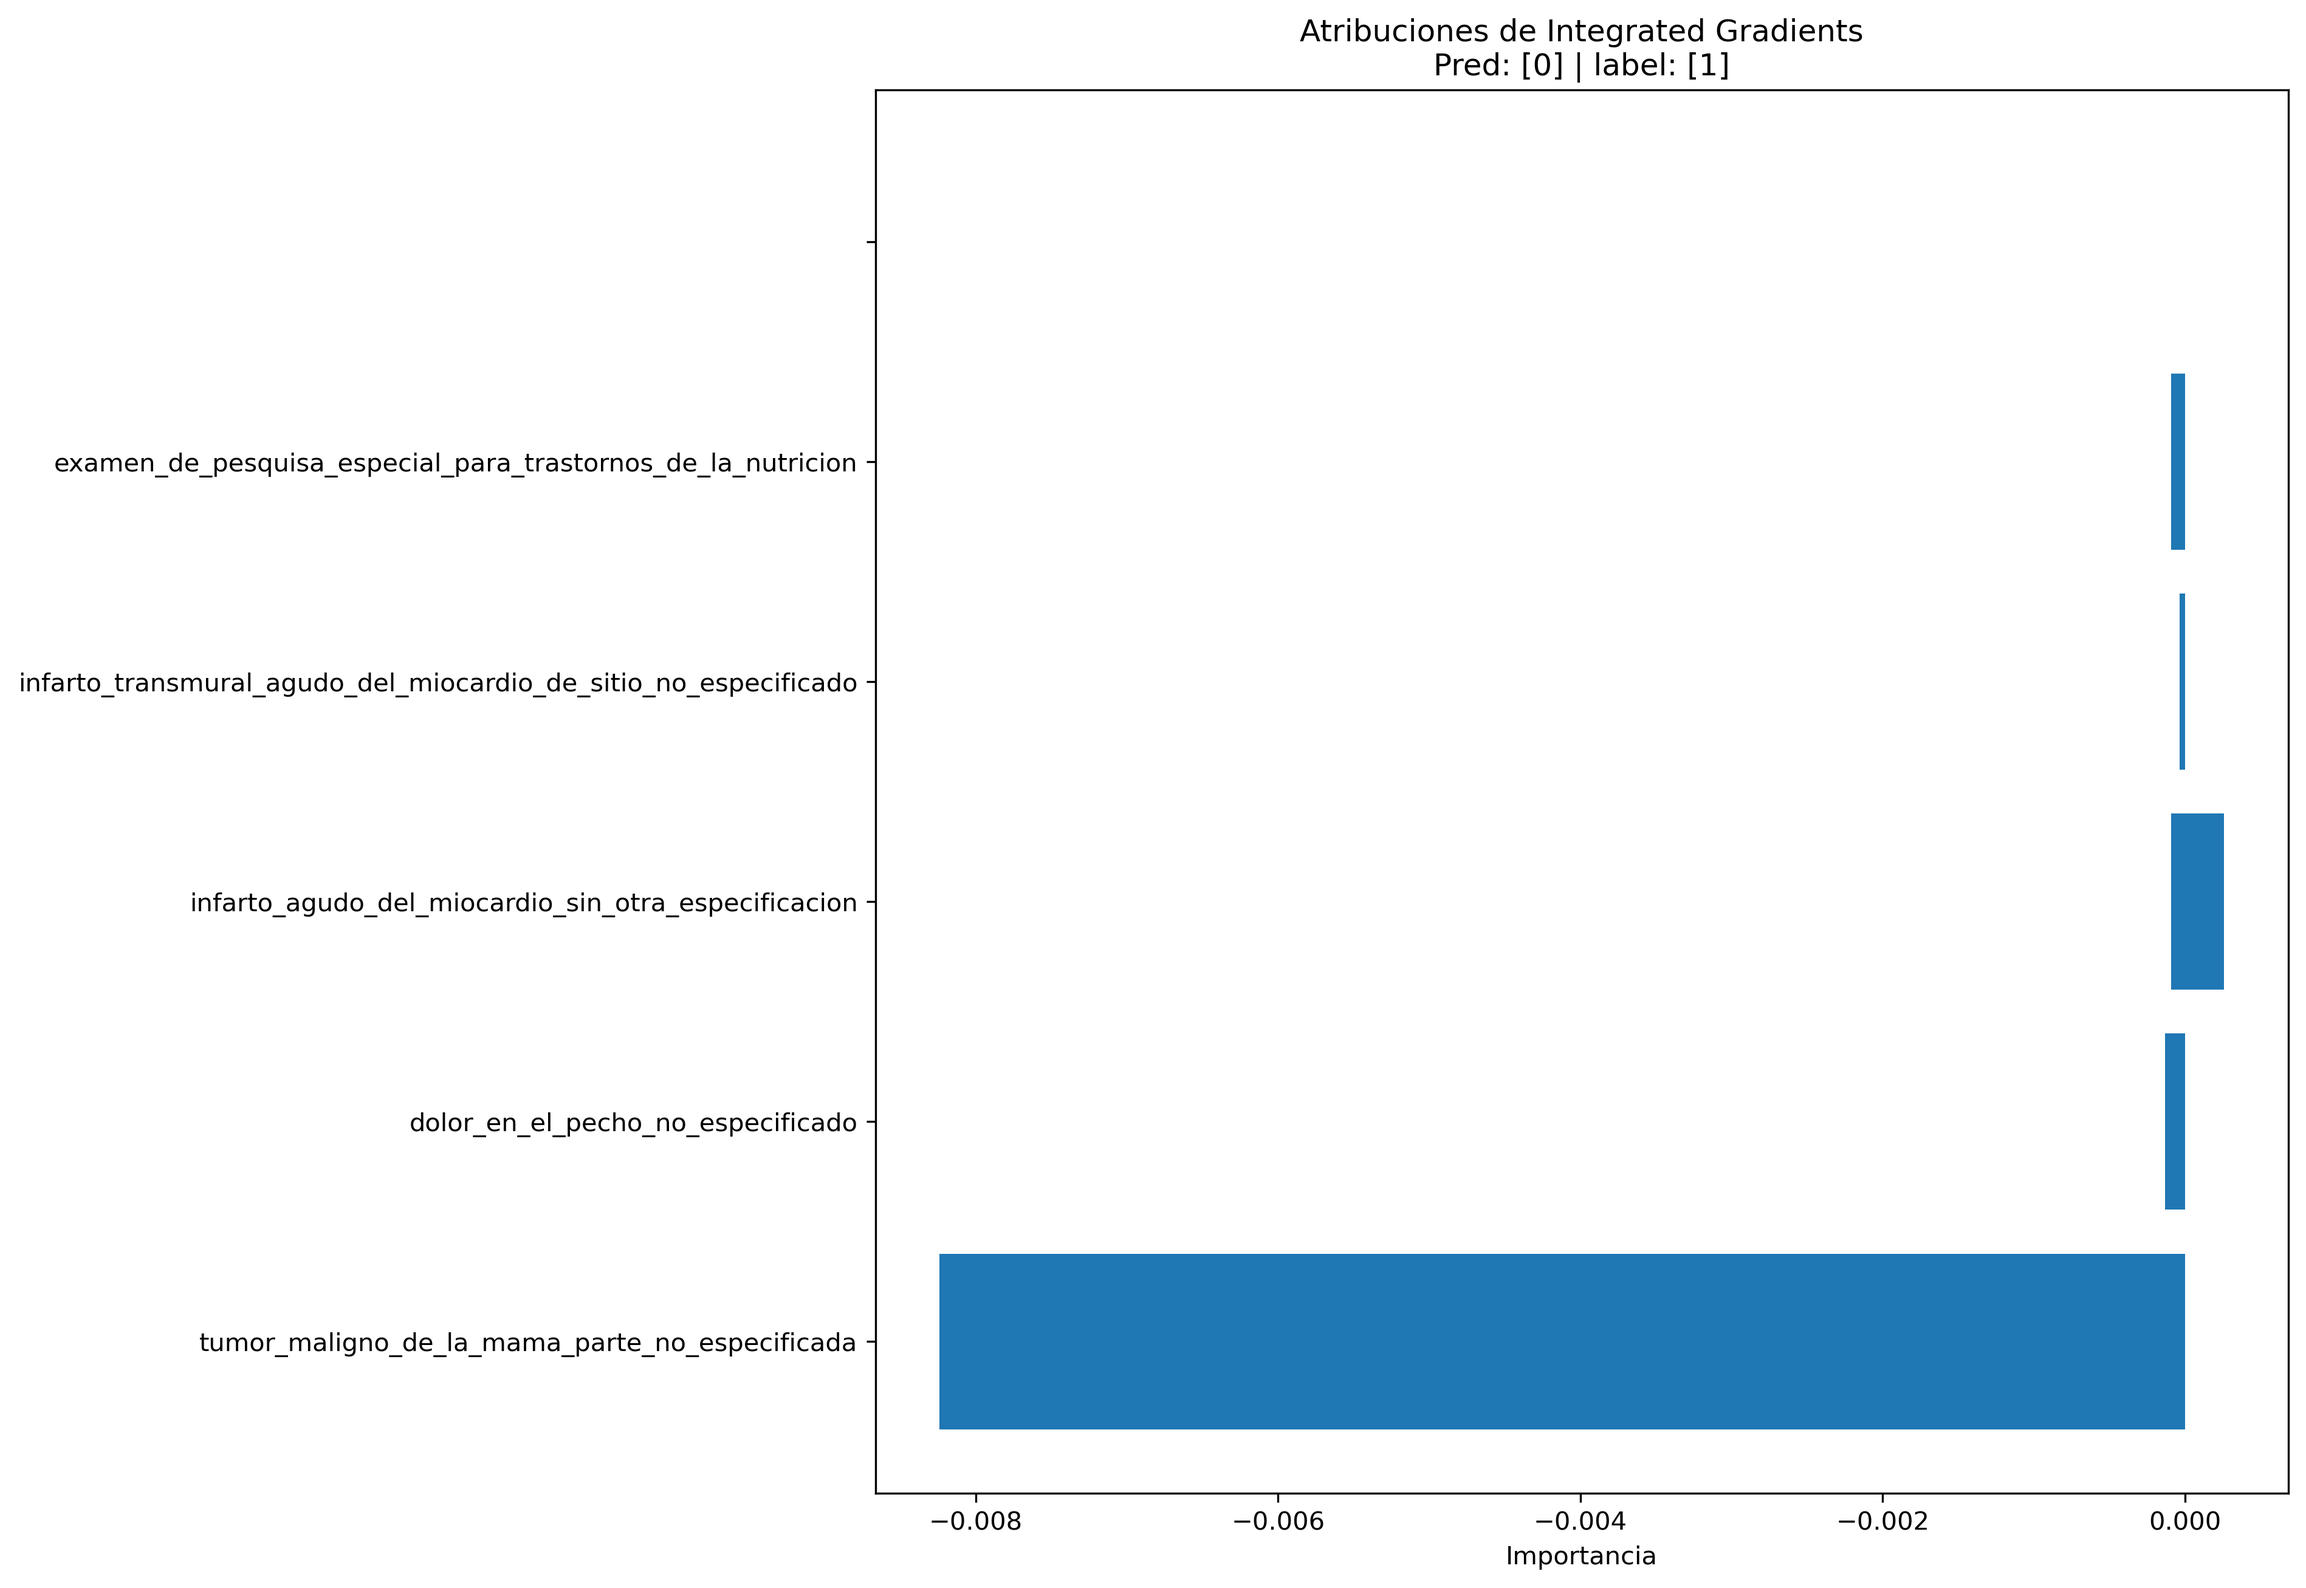
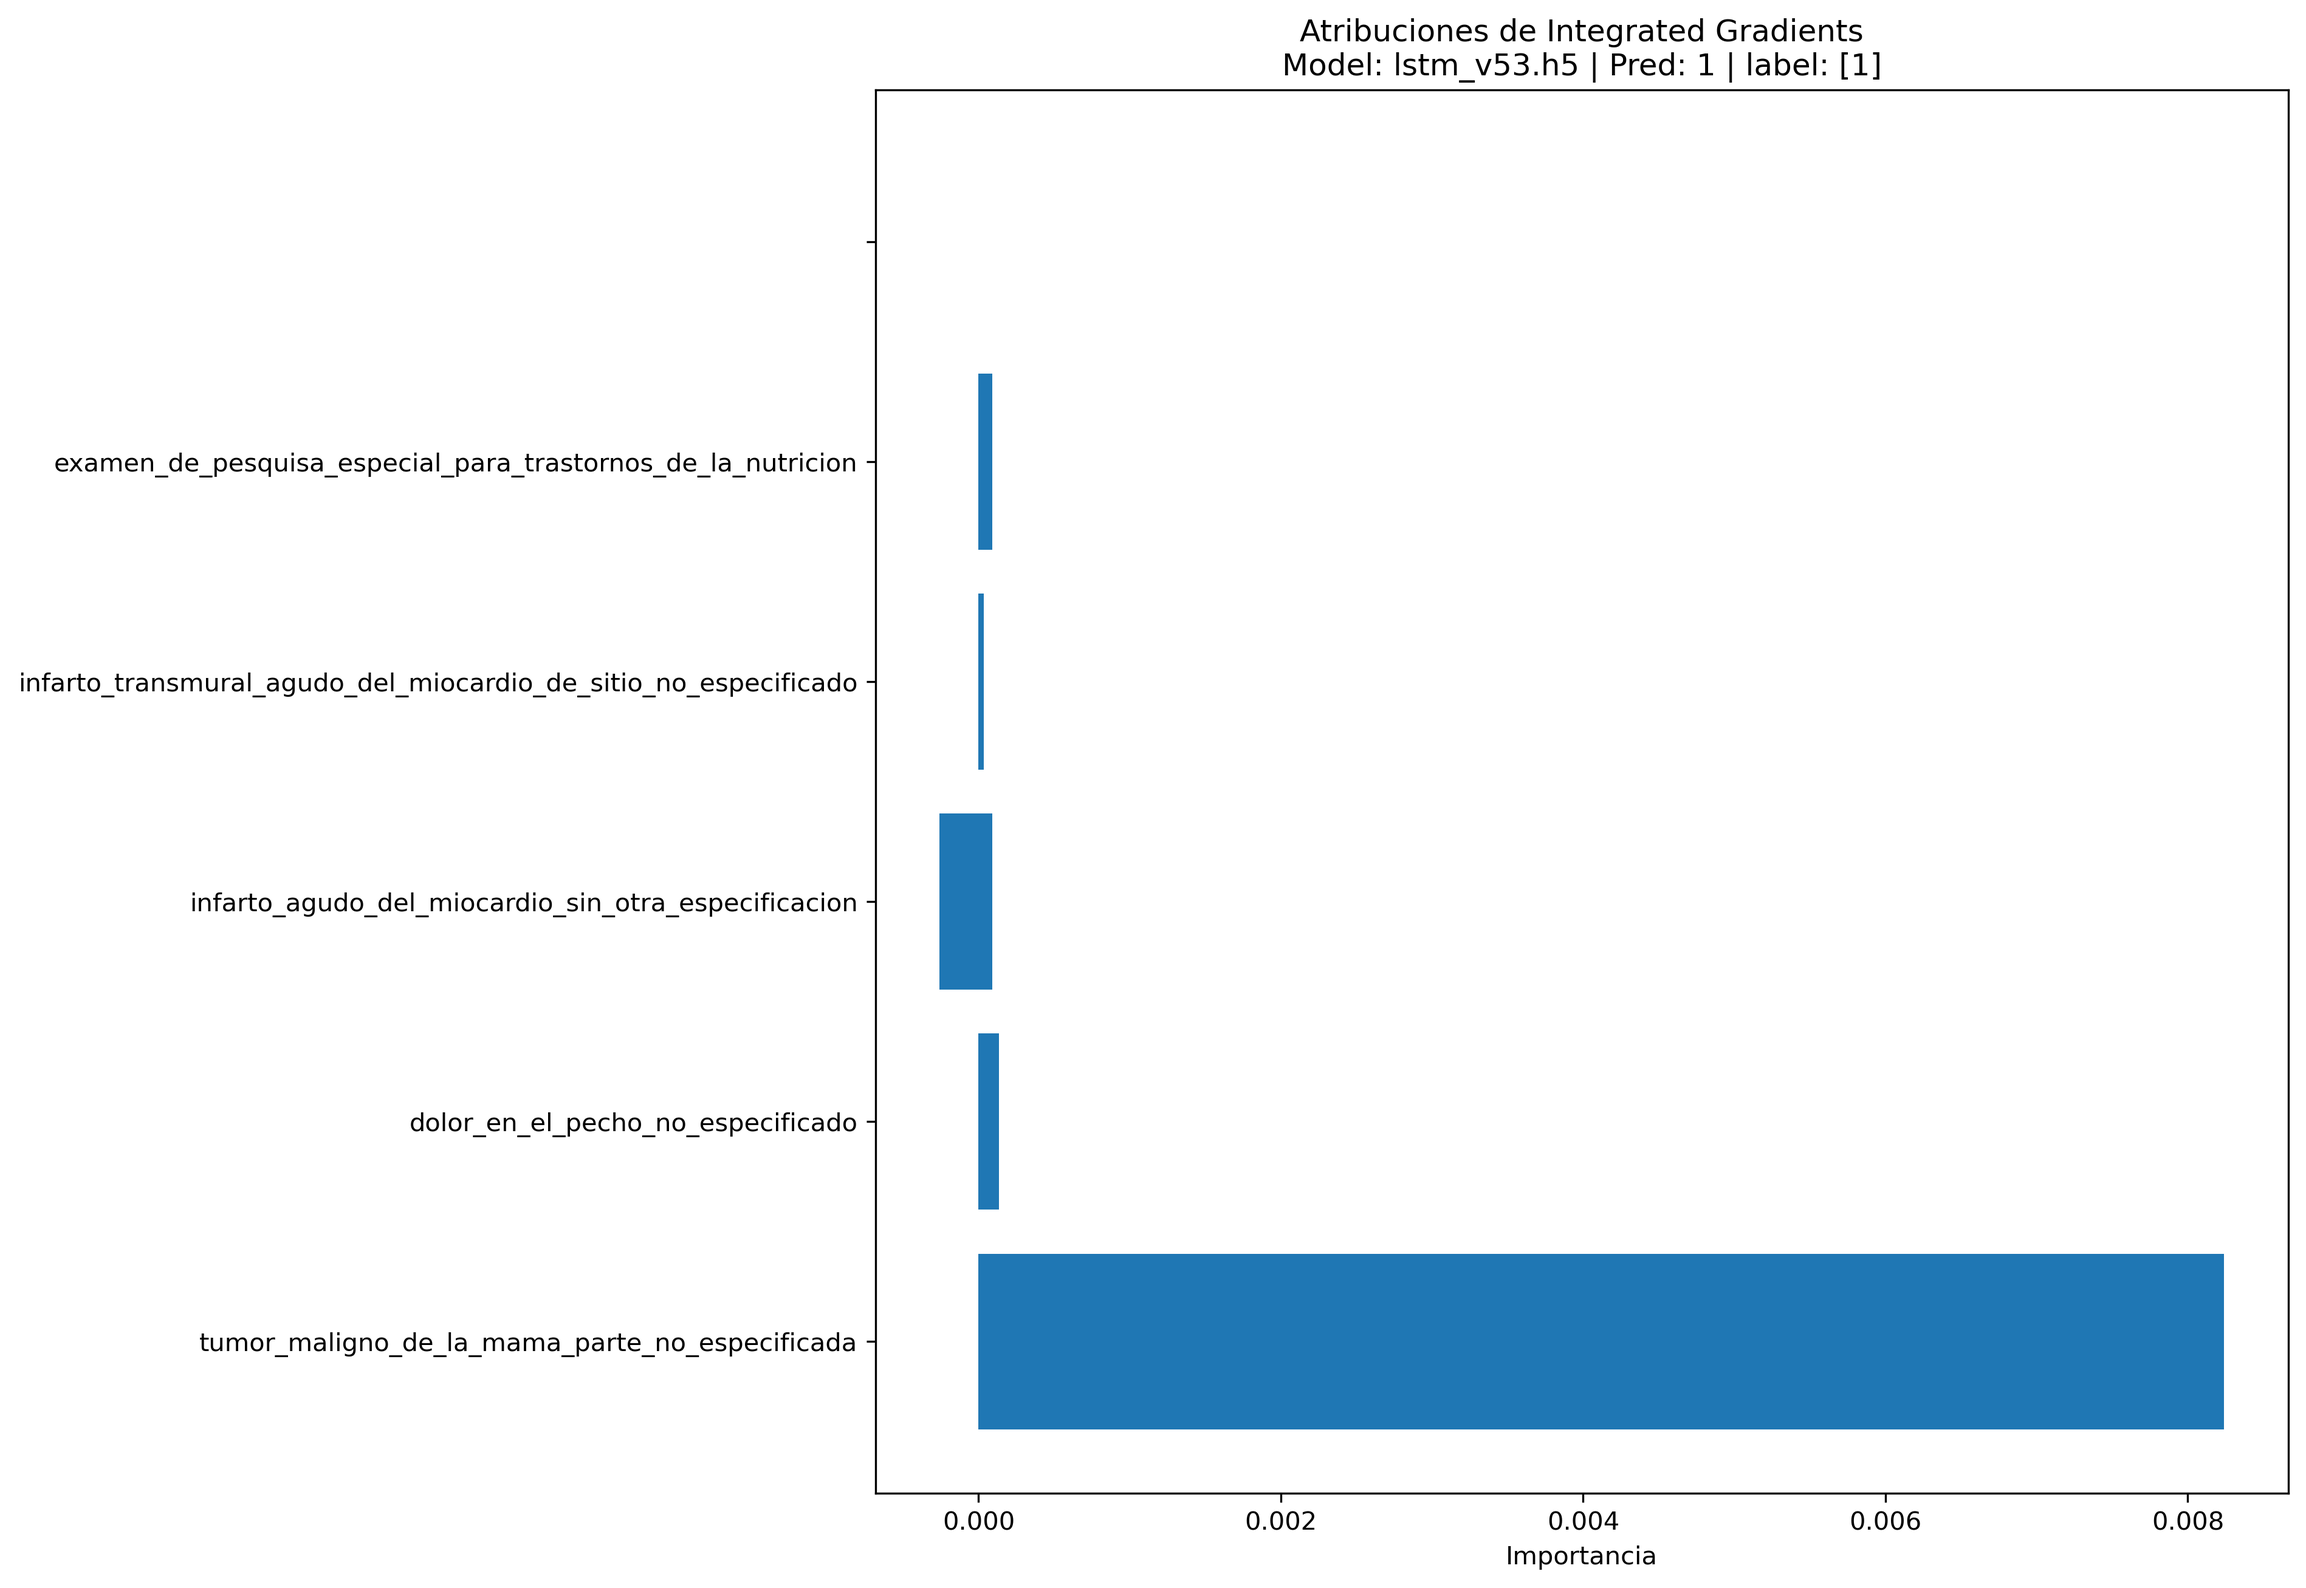
haciendo pruebas

diff --git a/id_seq.py b/id_seq.py
@@ -91,10 +91,13 @@ def main():
     # Buscar coincidencias
     matches = find_matching_sequences(X_train, terms, vocabulary, labels)
 
+    # Ordenar por match_count (índice 2 de la tupla), descendente
+    sorted_matches = sorted(matches, key=lambda x: x[2], reverse=True)
+
     # Mostrar resultados
     print("Resumen de coincidencias:")
-    for idx, label, count, words in matches:
-        if label == 1:
+    for idx, label, count, words in sorted_matches:
+        #if label == 1:
             print(f"Sec {idx} Label: {label}: {count} coincidencias → {set(words)}")
 if __name__ == "__main__":
     main()

diff --git a/exp_lstm_v53.py b/exp_lstm_v53.py
@@ -93,8 +93,8 @@ def posiciones_de_uno(arr):
 
 if __name__ == "__main__":
     
-    version = "lstm_v53.h5"
-    i = 34    
+    version = "lstm_v125.h5"
+    i = 0    
     ruta_modelo = "./models/"+version
     ruta_performance = "/home/pajaro/compu_Pipe_V3/performance_zine/performance_report.csv"    
     
